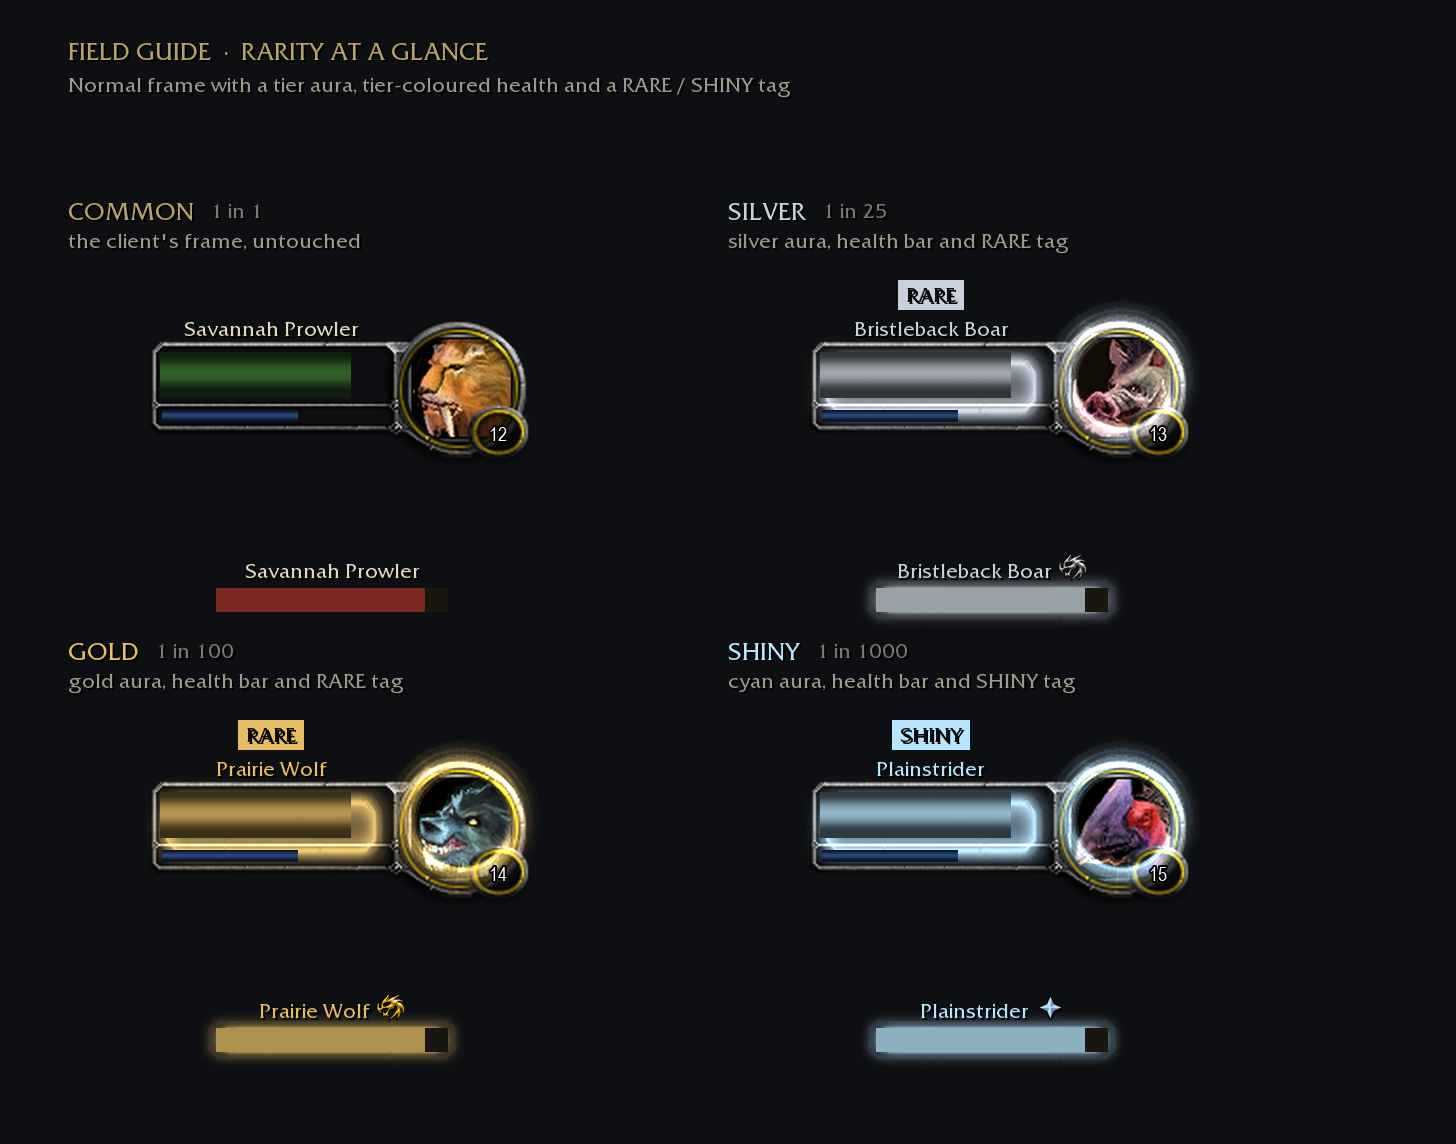
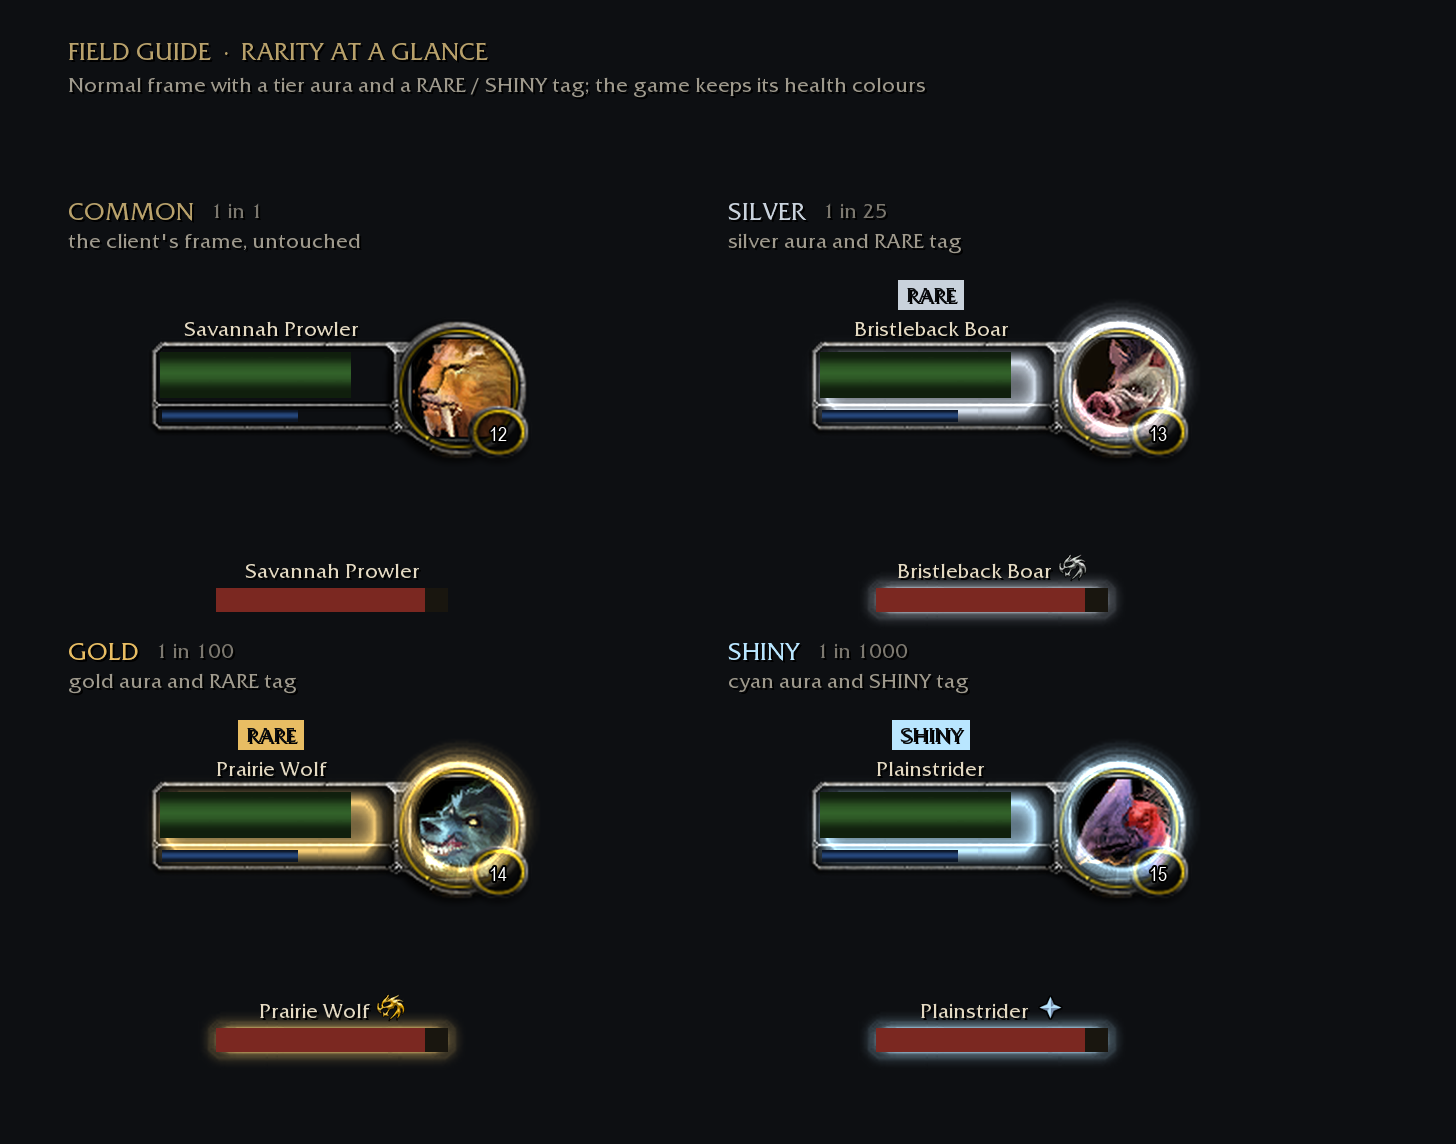
fix(rarity): leave nameplate and target colours to the game (#135)
* fix(rarity): leave nameplate and target colours to the game

Field Guide recoloured health bars and names for rare and shiny units
and restored a colour it had cached once per frame. Nameplates are
recycled, so a plate first used by a hostile mob kept red on friendly
units. Rarity is now marked by the glow and the RARE or SHINY tag only,
and the game's reaction colours are never touched.

Closes #134

Claude-Session: https://claude.ai/code/session_01UkMWrwndqHjjTAo7oE9YTP

* fix(rarity): remove the remaining health and name recolouring

The previous commit picked up a superseded approach that still painted
tier colours and restored them. Field Guide now never calls
SetStatusBarColor or SetTextColor on a target or nameplate; rarity is
the glow and the RARE or SHINY tag only, and the specs assert it.

Claude-Session: https://claude.ai/code/session_01UkMWrwndqHjjTAo7oE9YTP

---------

diff --git a/tools/rarity.py b/tools/rarity.py
@@ -1,8 +1,8 @@
 """Rarity mockups: the target frame and the nameplate at every collection tier.
 
-Design C: the client frame keeps its own chrome. A silver, gold or shiny creature adds a soft tier-coloured aura
-around the bars and portrait, paints the health bar and name in the tier colour, and puts a RARE or SHINY tag above
-the name. Nameplates take the tier colour in their health fill and name, with a soft glow and the existing mark.
+Design C: the client frame keeps its own chrome and the game's own reaction colours. A silver, gold or shiny creature
+adds a soft tier-coloured aura around the bars and portrait, plus a RARE or SHINY tag above the target name;
+nameplates take a soft tier glow and the existing mark. The health bar fill and name text are never recoloured.
 COMMON is the untouched client frame.
 
 Every pixel that is not the addon's own layout comes from the pinned WoW: Forever build through
@@ -33,9 +33,9 @@ OUT = ROOT / "docs" / "screenshots"
 # change at all; the whole promise of the feature is that a common creature looks exactly as it always did.
 TIERS = (
     ("COMMON", "1 in 1", None, "the client's frame, untouched"),
-    ("SILVER", "1 in 25", wowmock.rgb("c9d2dc"), "silver aura, health bar and RARE tag"),
-    ("GOLD", "1 in 100", wowmock.rgb("e8bd63"), "gold aura, health bar and RARE tag"),
-    ("SHINY", "1 in 1000", wowmock.rgb("b9e6ff"), "cyan aura, health bar and SHINY tag"),
+    ("SILVER", "1 in 25", wowmock.rgb("c9d2dc"), "silver aura and RARE tag"),
+    ("GOLD", "1 in 100", wowmock.rgb("e8bd63"), "gold aura and RARE tag"),
+    ("SHINY", "1 in 1000", wowmock.rgb("b9e6ff"), "cyan aura and SHINY tag"),
 )
 BAR_GLOW_LEFT = "UI-Frame-Bar-GlowLeft"
 BAR_GLOW_CENTER = "UI-Frame-Bar-GlowCenter"
@@ -188,7 +188,7 @@ def status_bar(canvas, texture, bounds, fraction, colour):
 
 
 def target_frame(ui, canvas, x, y, tier, icon, name, level, elite=False):
-    """Compose the measured client target frame with design C's aura, tier-coloured health and tag."""
+    """Compose the measured client target frame with design C's aura, tier tag and the client's health colours."""
     label, _, colour, _ = tier
     stem = "targetframeelite" if elite else "targetframe"
     frame = ui.texture(f"interface/targetingframe/{stem}.blp")
@@ -215,12 +215,12 @@ def target_frame(ui, canvas, x, y, tier, icon, name, level, elite=False):
             colour,
             TARGET_GLOW_LAYERS,
         )
-    status_bar(canvas, bar_texture, health_bounds, 0.86, colour or wowmock.rgb("3f7a34"))
+    status_bar(canvas, bar_texture, health_bounds, 0.86, wowmock.rgb("3f7a34"))
     status_bar(canvas, bar_texture, power_bounds, 0.62, wowmock.rgb("2f5a9e"))
     if colour:
         portrait_glow(canvas, ui, x, y, colour)
         tag(canvas, x, y, "SHINY" if label == "SHINY" else "RARE", colour)
-    text(canvas, x + 32, y + 8, name, "GameFontNormalSmall", colour or TEXT, justify="CENTER", width=111)
+    text(canvas, x + 32, y + 8, name, "GameFontNormalSmall", TEXT, justify="CENTER", width=111)
     text(
         canvas,
         x + LEVEL_CENTER[0] - 15,
@@ -234,8 +234,8 @@ def target_frame(ui, canvas, x, y, tier, icon, name, level, elite=False):
 
 
 def nameplate(ui, canvas, x, y, tier, name):
-    """One nameplate: a soft tier aura, the health fill and name in the tier colour, and the existing tier mark.
-    Copper leaves the client's red fill, white name and bronze trough untouched."""
+    """One nameplate: a soft tier aura and the existing tier mark, over the client's own reaction colours.
+    Every tier keeps the client's red fill and white name; only copper has no aura or mark."""
     label, _, colour, _ = tier
     w, h = 116, 12
     fill_texture = ui.texture("interface/targetingframe/nameplatefill.blp")
@@ -243,7 +243,7 @@ def nameplate(ui, canvas, x, y, tier, name):
         bar_glow(canvas, ui, (x, y, x + w, y + h), colour, PLATE_GLOW_LAYERS)
     trough_colour = tuple(component * 0.18 for component in BRASS)
     canvas.draw(fill_texture, x, y, w, h, trough_colour)
-    status_bar(canvas, fill_texture, (x, y, x + w, y + h), 0.9, colour or wowmock.rgb("a3342c"))
+    status_bar(canvas, fill_texture, (x, y, x + w, y + h), 0.9, wowmock.rgb("a3342c"))
     font = FONTS["GameFontNormalSmall"]
     label_width = canvas.text_width(name, font)
     atlas_name = PLATE_MARKS.get(label)
@@ -253,7 +253,7 @@ def nameplate(ui, canvas, x, y, tier, name):
     gap = 3 if atlas else 0
     group_width = label_width + gap + icon_width
     group_left = x + (w - group_width) / 2
-    text(canvas, group_left, y - 15, name, "GameFontNormalSmall", colour or TEXT)
+    text(canvas, group_left, y - 15, name, "GameFontNormalSmall", TEXT)
     if atlas:
         # The native elite marks already carry silver and gold; the shiny star takes the tier colour.
         mark_colour = colour if label == "SHINY" else wowmock.WHITE
@@ -274,9 +274,9 @@ def sheet(ui, icons, name, elite=False, plates=False):
     canvas = ui.canvas(cell_w * cols + m * 2, cell_h * rows + m * 2 + 64)
     canvas.fill(0, 0, canvas.width, canvas.height, BG)
     text(canvas, m, 18, "FIELD GUIDE  \u00b7  RARITY AT A GLANCE", "GameFontNormal", BRASS)
-    subtitle = "Normal frame with a tier aura, tier-coloured health and a RARE / SHINY tag"
+    subtitle = "Normal frame with a tier aura and a RARE / SHINY tag; the game keeps its health colours"
     if elite:
-        subtitle = "Elite frame keeps its client dragon chrome; the rarity adds the aura, health bar and tag"
+        subtitle = "Elite frame keeps its client dragon chrome; the rarity adds the aura and tag"
     text(canvas, m, 36, subtitle, "GameFontDisableSmall", MUTED)
     folk = ["Savannah Prowler", "Bristleback Boar", "Prairie Wolf", "Plainstrider"]
     glyph = ["prowler", "boar", "wolf", "strider"]

diff --git a/README.md b/README.md
@@ -33,7 +33,7 @@ Records keep the date you first saw a creature, first killed one and first found
 - **Research ranks**: kills move a species through Discovered (1), Observed (3), Studied (6) and Mastered (10). The kill count keeps going after that.
 - **Zone completion**: the share of a zone's species you have recorded. It counts recorded species, not mastered ones, so the bar moves with every new creature.
 - **Rares and shinies**: a rare variant is confirmed after three sightings, and every recorded kill has a 1 in 500 chance of a shiny.
-- **Rarity marks**: some species are silver, gold or shiny, the same for every player. A rare target frame gets a soft tier-coloured aura, a tier-coloured health bar and name, and a RARE or SHINY tag; its nameplate takes the tier colour, a soft glow and a small mark. Shiny creatures pulse gently. `/fg preview` shows all three for this session.
+- **Rarity marks**: some species are silver, gold or shiny, the same for every player. A rare target frame gets a soft tier-coloured aura and a RARE or SHINY tag; its nameplate gets a soft glow and a small tier mark. Health bars and names keep the game's own colours. Shiny creatures pulse gently. `/fg preview` shows all three for this session.
 - **Records**: first sighting and first kill for each creature, kept per character, and a sighting log for the current session.
 - **Tracking**: mark the species you are working on.
 - **Discoveries**: a first kill is announced at the top of the screen and tagged New in the journal. Rare, shiny, mastery and zone milestones get the game's achievement toast; click one to open the journal there. Both can be turned off in the options.

diff --git a/docs/curseforge.md b/docs/curseforge.md
@@ -24,7 +24,7 @@ Records keep the date you first saw a creature, first killed one and first found
 - **Research ranks**: kills move a species through Discovered (1), Observed (3), Studied (6) and Mastered (10). The kill count keeps going after that.
 - **Zone completion**: the share of a zone's species you have recorded.
 - **Rares and shinies**: a rare variant is confirmed after three sightings, and every recorded kill has a 1 in 500 chance of a shiny.
-- **Rarity marks**: some species are silver, gold or shiny, the same for every player. A rare target frame gets a soft tier-coloured aura, a tier-coloured health bar and name, and a RARE or SHINY tag; its nameplate takes the tier colour, a soft glow and a small mark. Shiny creatures pulse gently. `/fg preview` shows all three for this session.
+- **Rarity marks**: some species are silver, gold or shiny, the same for every player. A rare target frame gets a soft tier-coloured aura and a RARE or SHINY tag; its nameplate gets a soft glow and a small tier mark. Health bars and names keep the game's own colours. Shiny creatures pulse gently. `/fg preview` shows all three for this session.
 - **Records**: first sighting and first kill for each creature, kept per character, and a sighting log for the current session.
 - **Tracking**: mark the species you are working on.
 - **Instances**: bosses the game reports when an encounter ends, with first clears, attempts and kills by difficulty. It is a personal record, not a verified world-first board.

diff --git a/THIRD_PARTY.md b/THIRD_PARTY.md
@@ -18,6 +18,6 @@ Credit for the ideas and reports behind the addon.
 
 | Who | What | Notes |
 |---|---|---|
-| cjber | Asked for native journal composition and single-border icons, and reported shared-frame colour restoration conflicts (#71), kills going unrecorded once the client closed the combat log to addons (#91), generic creature list icons (#120), crowded detail spacing (#121) and the loot fanfares on the discovery toasts (#130), and asked for an on-screen moment when a new creature is killed, obvious rarity marks on target frames and nameplates, and a session preview (#123, #124) | |
+| cjber | Asked for native journal composition and single-border icons, and reported shared-frame colour restoration conflicts (#71), kills going unrecorded once the client closed the combat log to addons (#91), generic creature list icons (#120), crowded detail spacing (#121), the loot fanfares on the discovery toasts (#130) and friendly nameplates keeping a stale red health colour (#134), and asked for an on-screen moment when a new creature is killed, obvious rarity marks on target frames and nameplates, and a session preview (#123, #124) | |
 
 Thanks also to everyone else who reported a bug or asked for a feature, here or on CurseForge.

diff --git a/CHANGELOG.md b/CHANGELOG.md
@@ -5,6 +5,8 @@ All notable changes to Field Guide Forever are documented here. The format is ba
 
 ## [Unreleased]
 
+- **Rarity marks no longer recolour health bars or names.** Field Guide leaves every target and nameplate health bar and name in the game's own reaction colours, and marks rarity with the glow and the RARE or SHINY tag only. A nameplate reused after a hostile rare now keeps its new unit's green, yellow or red reaction colour, and `/fg preview` off returns every plate to the game's own colour. Thanks to cjber for the report (#134).
+
 ## [0.3.33] - 2026-11-05
 
 - The discovery toasts now play the achievement chime instead of loot fanfares. Thanks to cjber for the report (#130).
